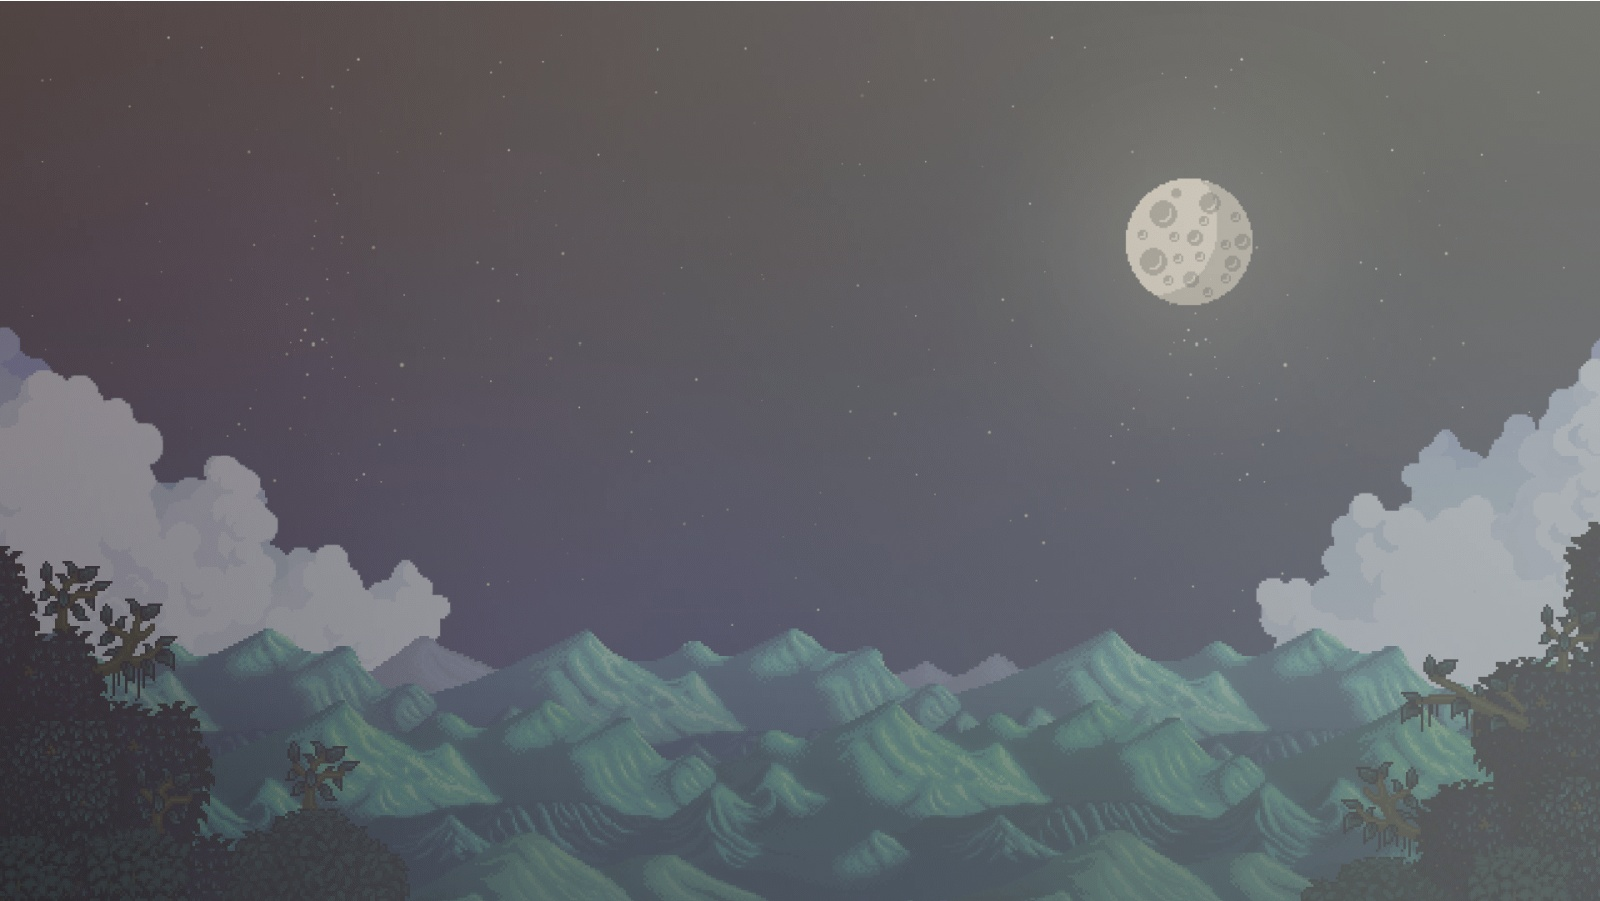
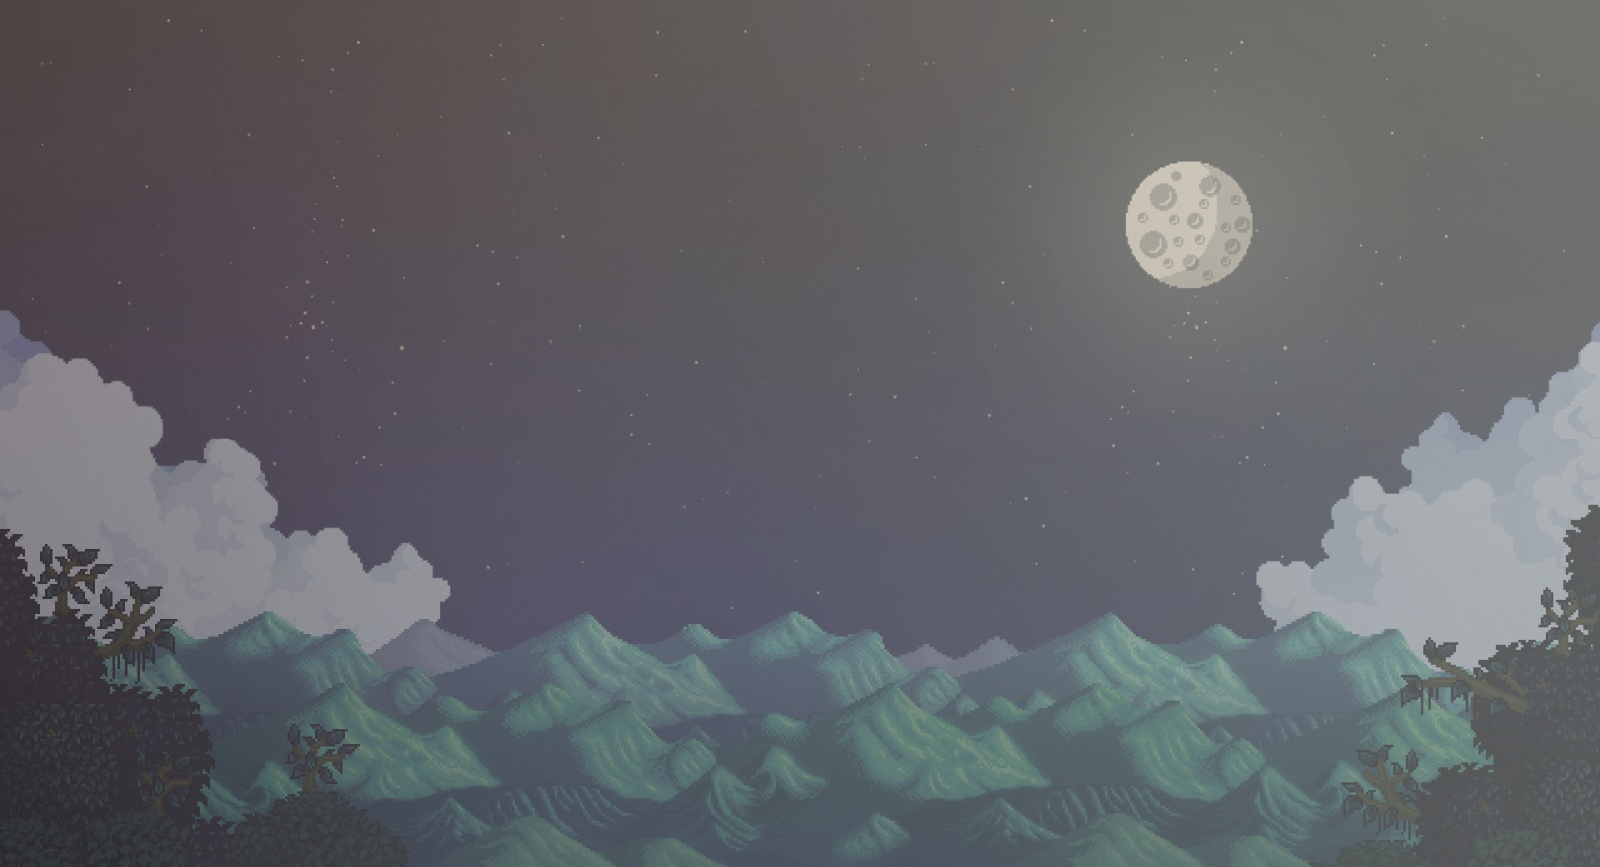
Added background.

diff --git a/index.html b/index.html
@@ -13,11 +13,15 @@
     />
 
     <h1 class="title">Nerd Journal</h1>
+
     <p>
       This journal is a log of my upcoming improvements in coding, so I can come
       back here in a few months and realize how far I can go.
     </p>
 
-    <a href=""
+    <a href="About.html">About</a>
+    <a href="Journal.html">Journal</a>
+    <a href="image.log.html">Image Log</a>
+    <a href="Projects.html">Projects</a>
   </body>
 </html>

diff --git a/codes.css b/codes.css
@@ -6,9 +6,11 @@ img {
 }
 
 h1.title {
-  font-size: larger;
+  font: size 50px;
   color: rgb(89, 142, 243);
 }
+
+
 
 body {
     background-image: url('images/background.jpg');
